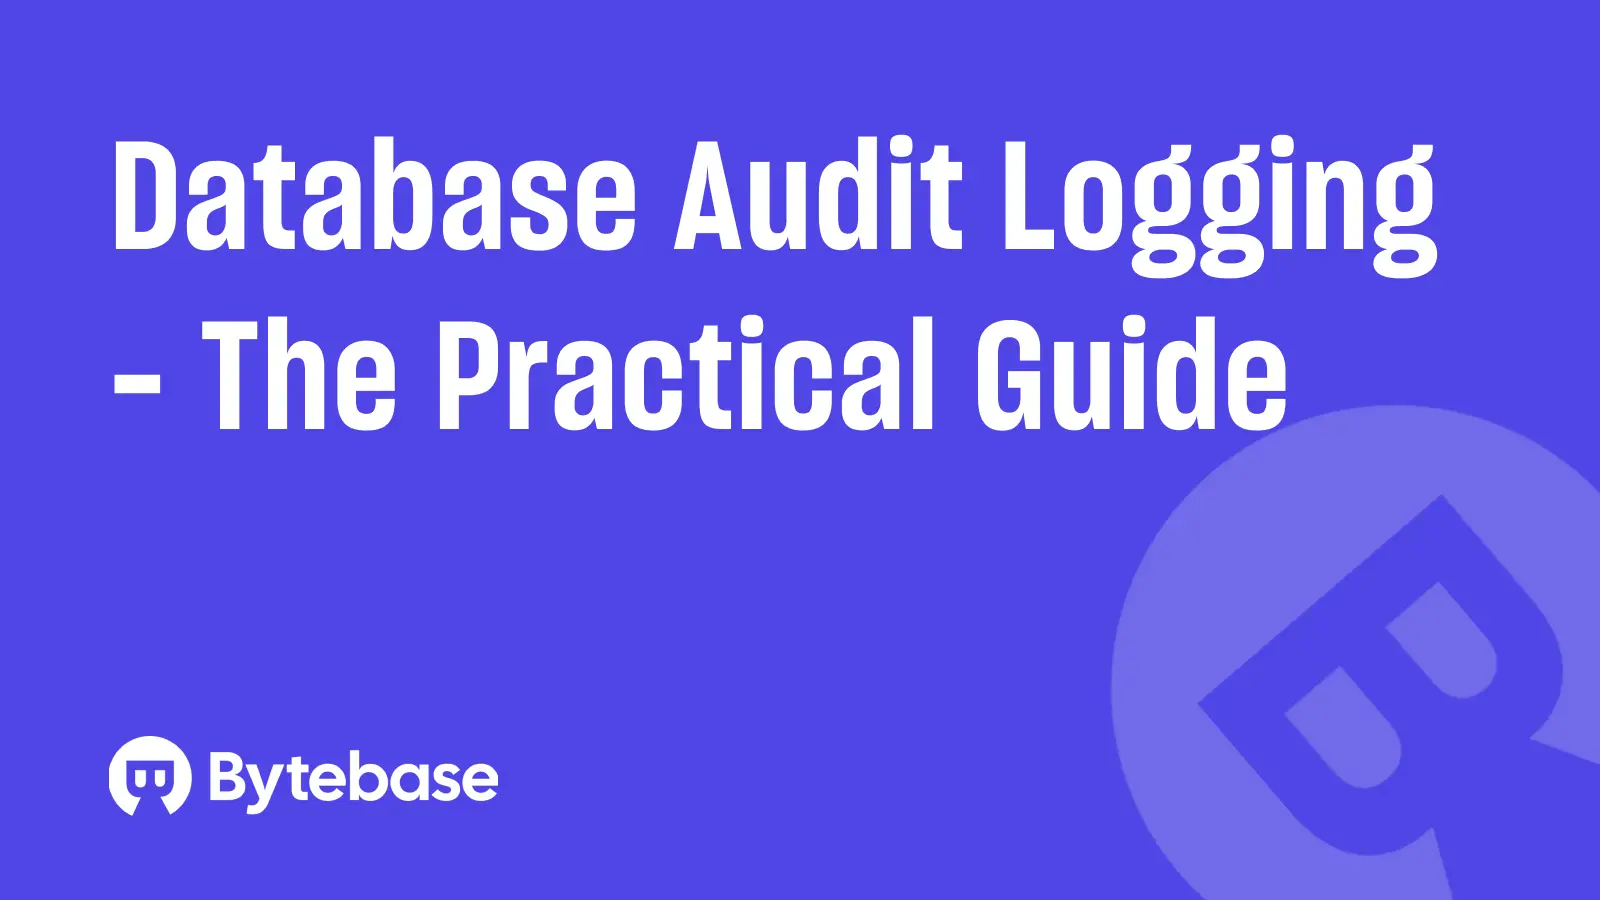
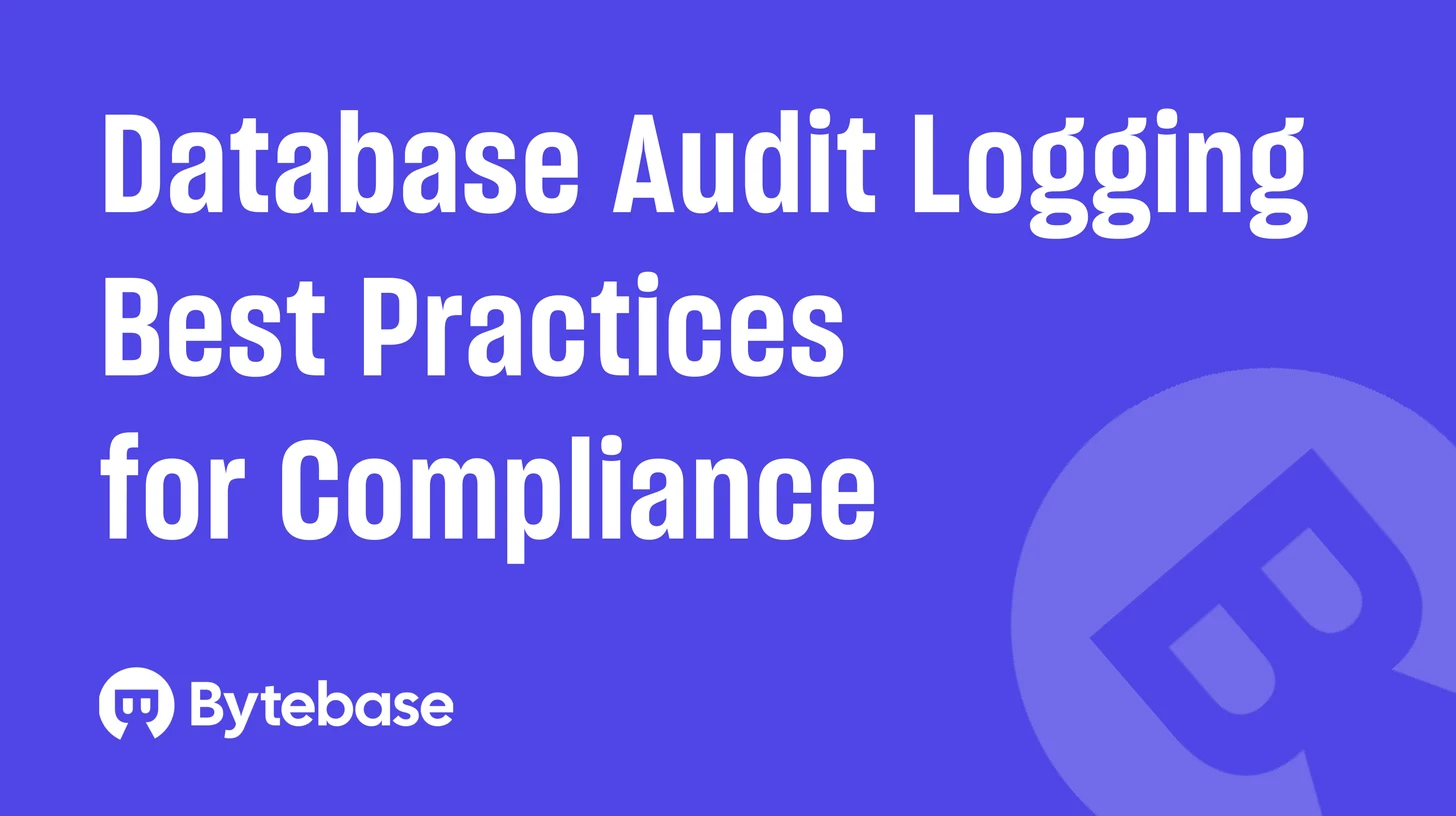
update db-audit-logging (#1049)

Changed region(s): [[0.0618, 0.1225, 0.8963, 0.3064], [0.0618, 0.337, 0.8036, 0.4902], [0.0618, 0.5208, 0.6181, 0.7047]]

diff --git a/content/blog/database-audit-logging.md b/content/blog/database-audit-logging.md
@@ -1,15 +1,15 @@
 ---
-title: Database Audit Logging - The Practical Guide
+title: 'Database Audit Logging Best Practices for Compliance'
 author: Adela
-updated_at: 2025/11/27 18:00:00
+updated_at: 2026/03/19 09:00:00
 feature_image: /content/blog/database-audit-logging/banner.webp
-tags: Industry
-description: A guide to audit logging in databases.
+tags: Explanation
+description: 'How to set up database audit logging for SOC 2, HIPAA, and ISO 27001 compliance across PostgreSQL, MySQL, SQL Server, and Oracle.'
 ---
 
-Database audit logging is now a core security expectation, with standards like SOC 2, ISO 27001, GDPR, HIPAA, and PCI DSS requiring a complete record of **who accessed what, when, and from where**.
+Database audit logging records every query, schema change, and login attempt in your database so you can answer the question: **who did what, when, and from where**. It is a requirement for [SOC 2](/blog/soc2-data-security-and-retention-requirements/), ISO 27001, [GDPR](/blog/database-compliance-for-gdpr/), [HIPAA](/blog/hipaa-data-security-and-retention-requirements/), and PCI DSS compliance.
 
-Yet building a consistent audit trail across different database engines is still challenging. This article explains why, what "good" looks like, and how to design a reliable auditing strategy.
+Building a consistent audit trail across PostgreSQL, MySQL, SQL Server, and Oracle is still hard because each engine handles auditing differently. This guide covers what to log, how each engine works, common mistakes, and how to get a unified audit trail.
 
 ## Why Audit Logging Matters
 
@@ -32,7 +32,7 @@ Without reliable audit logs, organizations lack visibility at the exact moment i
 
 ## The Real-World Pain Today (Across All Major Databases)
 
-All major relational databases — MySQL, PostgreSQL, SQL Server, Oracle and cloud-managed variants like AWS RDS, Google Cloud SQL, and Azure Database — provide audit capabilities. However, *how* they provide these capabilities varies dramatically, and implementing them correctly requires deep expertise.
+All major relational databases (MySQL, PostgreSQL, SQL Server, Oracle, and cloud-managed variants like AWS RDS, Google Cloud SQL, and Azure Database) provide audit capabilities. However, *how* they provide these capabilities varies dramatically, and implementing them correctly requires deep expertise.
 
 Here are common issues teams encounter:
 
@@ -44,9 +44,17 @@ Selective auditing (especially for non-root users) requires additional plugins t
 ### PostgreSQL — Example
 
 PostgreSQL relies on extensions such as `pgaudit` for structured auditing.
-While powerful, these extensions require **careful tuning** to avoid overwhelming log volume while still capturing all critical operations — including SELECTs.
+While powerful, these extensions require **careful tuning** to avoid overwhelming log volume while still capturing all critical operations, including SELECTs.
 
-### Cloud Databases (AWS RDS, Google Cloud SQL, Azure Database) — Example
+### SQL Server
+
+SQL Server has built-in [SQL Server Audit](https://learn.microsoft.com/en-us/sql/relational-databases/security/auditing/sql-server-audit-database-engine) that writes to Windows Event Log or file targets. It supports fine-grained audit specifications at both server and database level. The main difficulty is managing audit file rotation and shipping logs to a central system, since SQL Server Audit writes binary files that need parsing.
+
+### Oracle
+
+Oracle provides [Unified Auditing](https://docs.oracle.com/en/database/oracle/oracle-database/19/dbseg/introduction-to-auditing.html) (available since 12c), which consolidates all audit records into a single `UNIFIED_AUDIT_TRAIL` view. It replaces the older `AUDIT` command. Oracle's auditing is the most granular of any major engine, but the volume of audit data in high-throughput systems requires careful management of the `AUDSYS` tablespace.
+
+### Cloud databases (AWS RDS, Google Cloud SQL, Azure Database)
 
 Cloud platforms wrap underlying engine audit logs into provider-specific formats.
 Teams often struggle with:
@@ -57,12 +65,12 @@ Teams often struggle with:
 
 **In short:**
 
-> Audit information exists everywhere — but it’s fragmented, inconsistent, and often incomplete.
+> Audit information exists everywhere, but it’s fragmented, inconsistent, and often incomplete.
 
 ## What a Good Audit Log Should Capture
 
 A reliable audit log must capture **every database action**, not just modifications.
-In modern security models, **access is just as important — and often more important — than change**.
+In modern security models, **access is just as important as change, and often more so**.
 
 ### A robust audit log includes:
 
@@ -73,7 +81,7 @@ In modern security models, **access is just as important — and often more impo
 
   - **DDL** (all schema changes)
   - **DML** (INSERT, UPDATE, DELETE)
-  - **SELECT** (all read operations — because viewing sensitive data is a high-risk event)
+  - **SELECT** (all read operations, because viewing sensitive data is a high-risk event)
 
 - **Authentication events**
   Both successful logins and failed login attempts.
@@ -146,11 +154,35 @@ A workflow platform like **Bytebase** produces complete, contextual audit logs b
 
 Regardless of database engine or auditing method, strong audit practices share the same foundations:
 
-- **Use individual identities** — never share DB accounts.
-- **Record all DDL, DML, and SELECT** — access visibility is non-negotiable.
-- **Store logs off-host** — prevents tampering or accidental deletion.
-- **Apply retention policies** (90, 180, or 365+ days).
+- **Use individual identities.** Never share DB accounts.
+- **Record all DDL, DML, and SELECT.** Access visibility is non-negotiable.
+- **Store logs off-host.** This prevents tampering or accidental deletion.
+- **Apply retention policies** (90, 180, or 365+ days depending on framework).
 - **Integrate logs into a SIEM** for alerting and correlation (Datadog, Splunk, CloudWatch, Grafana).
-- **Treat default engine settings cautiously** — they often require substantial tuning.
+- **Treat default engine settings cautiously.** They often require substantial tuning.
 
 A minimal-noise, high-fidelity audit log is better than a noisy one that nobody can use.
+
+## Common mistakes
+
+| Mistake | What goes wrong | Fix |
+|---------|----------------|-----|
+| Logging everything at max verbosity | Log volume explodes, storage costs spike, nobody reads the logs | Start with DDL + DML + failed logins, add SELECTs only for sensitive tables |
+| Shared database accounts | Audit log says "admin" did it, but you have 15 people using that account | Map every query to an individual user identity |
+| Storing logs on the same host | An attacker or accidental `DROP DATABASE` also wipes the audit trail | Ship logs to a separate system (SIEM, S3, or centralized logging) |
+| No retention policy | Logs either fill the disk or get rotated away before the next audit | Set explicit retention (SOC 2 typically requires 90-365 days) |
+| Ignoring SELECT queries | You can prove data was changed but not that it was *read* | Audit SELECTs on tables containing PII, credentials, or financial data |
+
+## FAQ
+
+**What is database audit logging?**
+
+Database audit logging is the process of recording all database activity, including queries, schema changes, logins, and permission changes, into a tamper-resistant log. It answers who accessed what data, when, and from where.
+
+**Which compliance frameworks require database audit logging?**
+
+SOC 2, ISO 27001, HIPAA, PCI DSS, and GDPR all require some form of database audit trail. SOC 2 and ISO 27001 are the most explicit about logging requirements. See [SOC 2 data security requirements](/blog/soc2-data-security-and-retention-requirements/) and [HIPAA database requirements](/blog/hipaa-data-security-and-retention-requirements/) for specifics.
+
+**How do I export database audit logs to Datadog or Splunk?**
+
+Most engines write audit logs to files or system tables. For PostgreSQL, configure `pgaudit` to write to `csvlog` and use a Datadog or Splunk agent to ingest the files. For MySQL, enable the audit plugin and point the log file at your SIEM collector. For SQL Server, parse the `.sqlaudit` files with `fn_get_audit_file()` and forward via a log shipper. Bytebase provides a built-in [audit log API](/docs/security/audit-log/) that exports structured JSON, ready for any SIEM.
